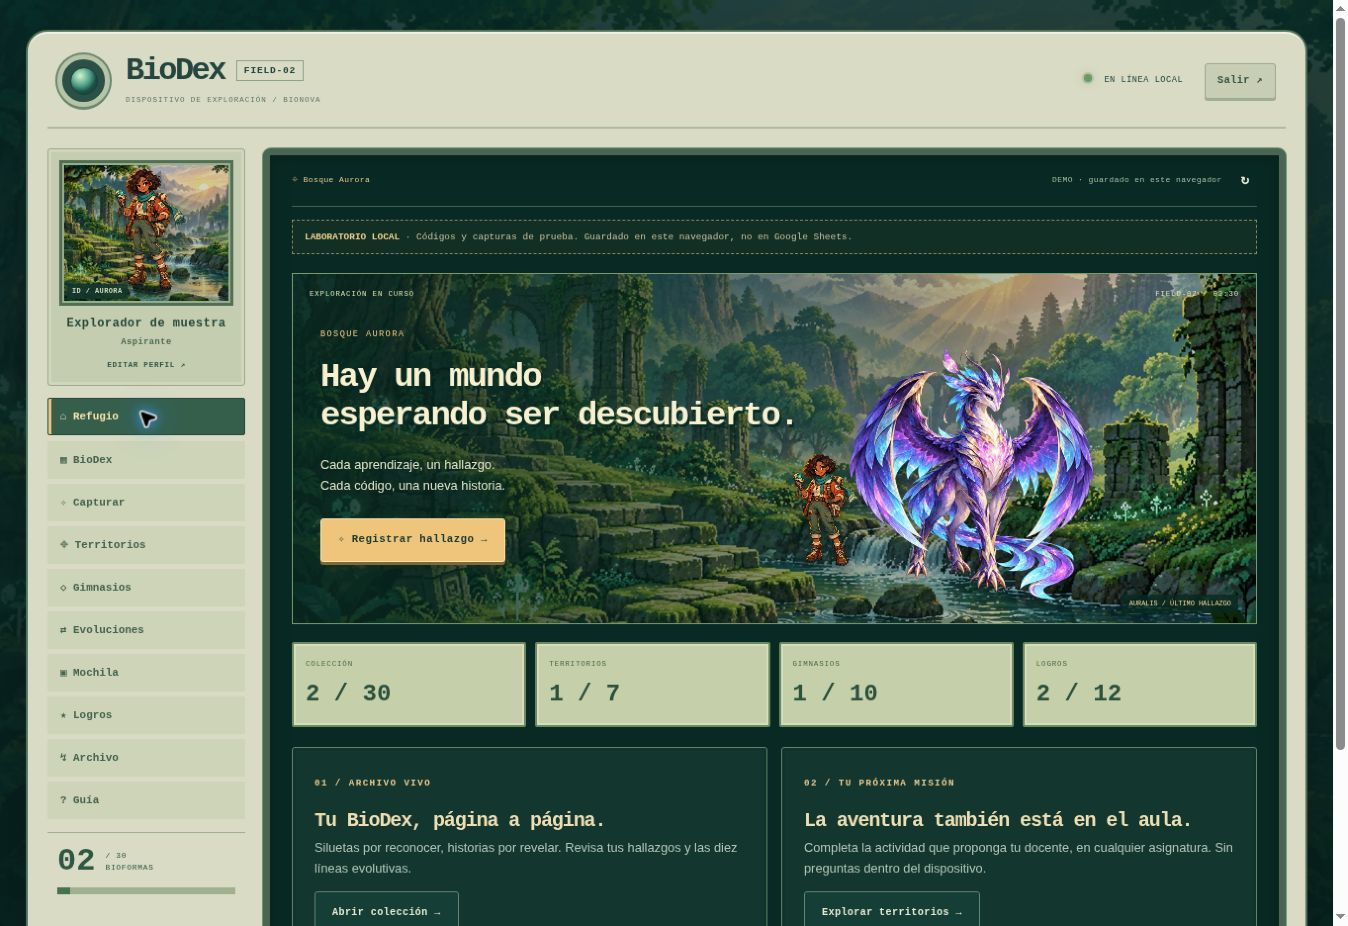
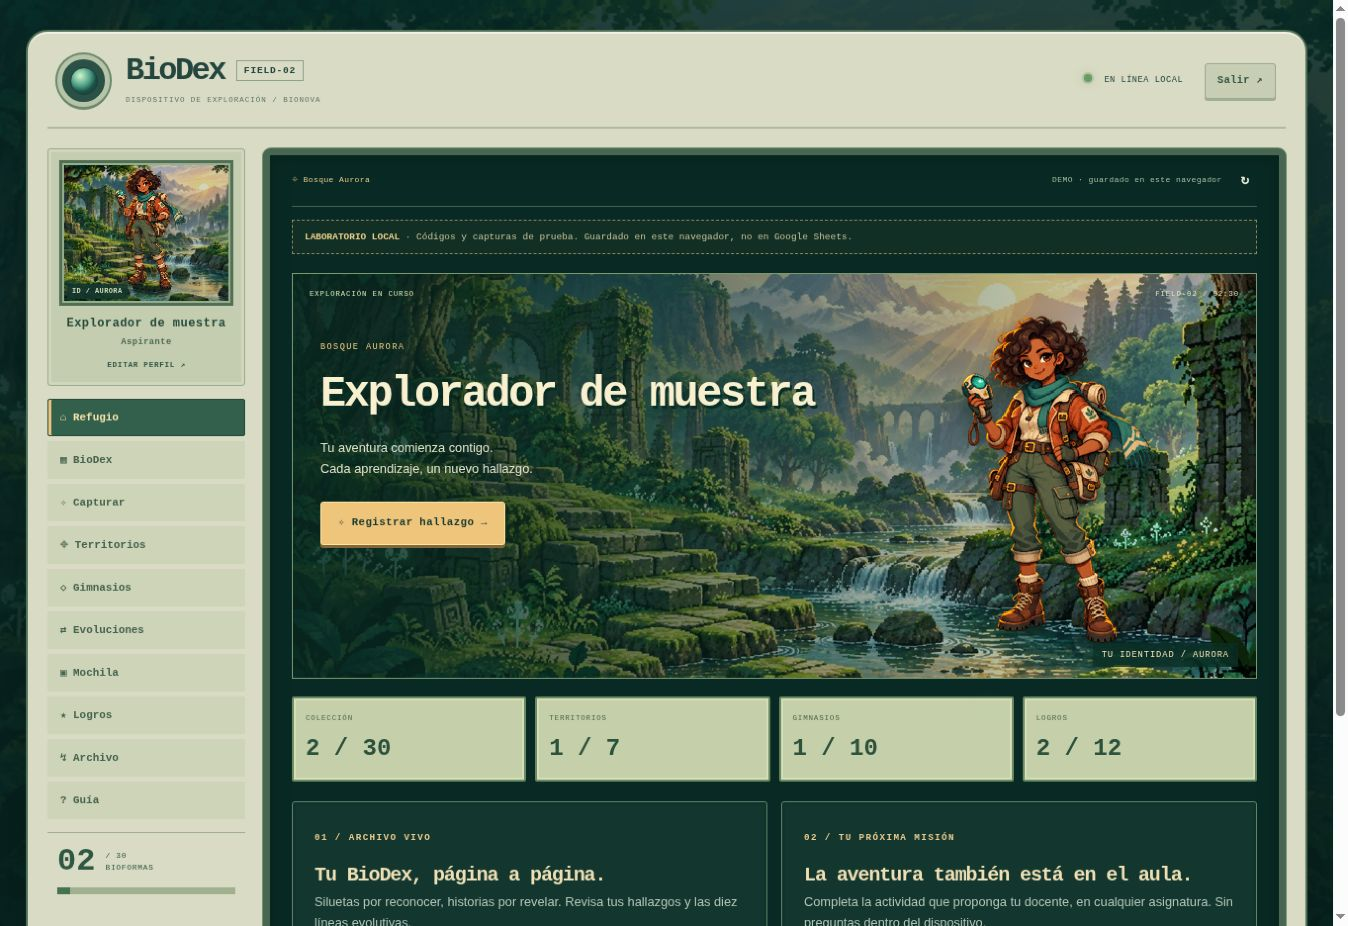
Document trainer identity revision and responsive visual checks

diff --git a/tests/QA_FIELD.md b/tests/QA_FIELD.md
@@ -52,3 +52,13 @@ La demo no comprueba ni guarda el PIN y no acredita progreso del docente.
 
 La publicación modifica solo `/preview/`. Se comprobó que el `index.html`
 original mantiene el blob `41ee788123e38e302b08fb457726b48ebec25893`.
+
+## Actualización: identidad del entrenador
+
+Se retiraron las bioformas de bienvenida y refugio, ampliando al entrenador y
+destacando el nombre del jugador. Verificadas ambas pantallas a 320, 390, 768 y
+1280 px: ocho comprobaciones sin controles recortados ni imágenes de bioformas
+en los paisajes. El avatar mide entre 260 y 350 px de alto según pantalla y ancho.
+Las 31 pruebas automatizadas siguen aprobadas.
+
+Vista de la [portada con entrenador](../docs/field02-trainer-welcome.jpg).

diff --git a/README.md b/README.md
@@ -23,6 +23,9 @@ paisajes seleccionables al entrar o desde el perfil. Los 30 recortes PNG
 transparentes se usan durante la captura y el escáner; la BioDex y las fichas
 conservan las ilustraciones completas. La animación original permanece.
 
+La bienvenida y el refugio muestran exclusivamente al entrenador ampliado sobre
+el paisaje pixel art. En el refugio, el nombre del jugador protagoniza la pantalla.
+
 La demo permite probar los 47 códigos originales, con evoluciones en orden,
 activación de siete territorios y diez gimnasios, logros y respaldo. Su progreso,
 nombre, avatar, paisaje y textura CRT se guardan en una clave local separada
